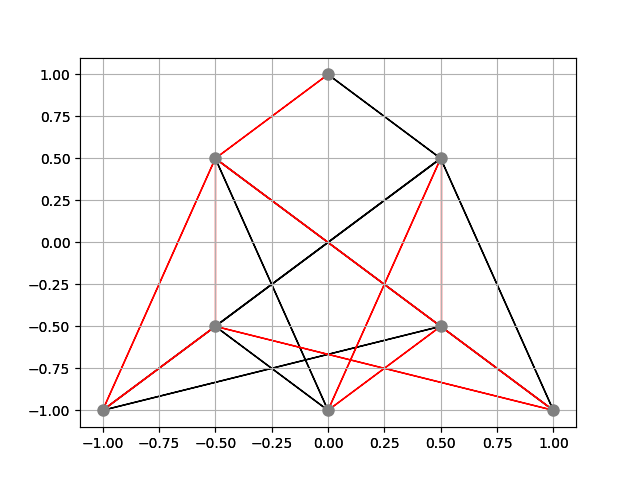
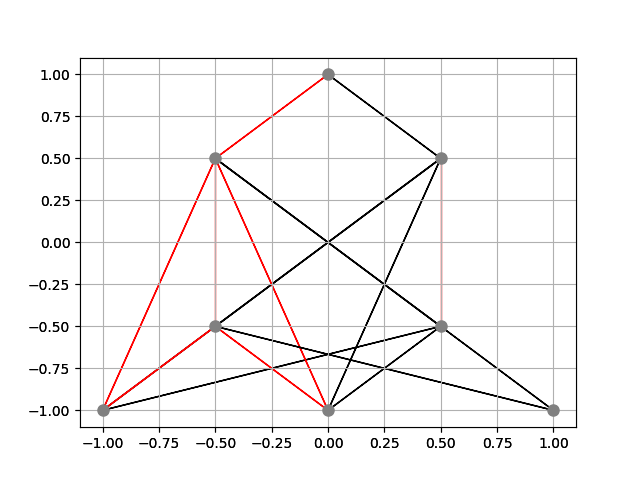
Coded merge_branch_outputs() to deal with similar connections by different branches. Updated pole_balancing experiments to work and print more details.

diff --git a/pureples/des_hyperneat/des_hyperneat.py b/pureples/des_hyperneat/des_hyperneat.py
@@ -63,10 +63,9 @@ class DESNetwork:
             # Where the magic happens.
             new_hidden_nodes, new_connections = self.des_hyperneat(branch_nodes)
 
-            # self.merge_branch_outputs(connections, new_connections)
+            connections = self.merge_branch_outputs(connections, new_connections)
 
             hidden_nodes = hidden_nodes.union(new_hidden_nodes)
-            connections = connections.union(new_connections)
 
 
         # Map hidden coordinates to their IDs.
@@ -99,23 +98,30 @@ class DESNetwork:
         # This is actually a feedforward network.
         return neat.nn.RecurrentNetwork(input_nodes, output_nodes, node_evals)
 
-    # def merge_branch_outputs(self, cons, new_cons):
-    #     """
-    #     Merge connections generated by a branch with the rest of the connections in a phenotype network.
-    #     """
+    def merge_branch_outputs(self, cons, new_cons):
+        """
+        Merge connections generated by a branch with the rest of the connections in a phenotype network.
+        """
+        merged_cons = set()
 
-    #     if cons:
-    #         if new_cons:
-    #             for ncid, nc in new_cons:
-    #                 if cons[ncid]:
-                        
-    #                         if nc == c:
-    #                             print(hi)
-    #                         #elif nc.
-    #         else:
-    #             return cons
-    #     else:
-    #         return new_cons
+        if cons:
+            if new_cons:
+                for nc in new_cons:
+
+                    for c in cons:
+                        if c.x1 == nc.x1 and c.y1 == nc.y1 and c.x2 == nc.x2 and c.y2 == nc.y2:
+                            if abs(c.weight) < abs(nc.weight):
+                                for c_attr, nc_attr in zip([attr for attr in dir(c) if not attr.startswith("__")], [attr for attr in dir(nc) if not attr.startswith("__")]):
+                                    if c_attr not in ["x1", "x2", "y1", "y2"]:
+                                        merged_cons.add(nc)
+                        else:
+                            merged_cons.add(nc)
+                    return merged_cons
+                
+            else:
+                return cons
+        else:
+            return new_cons
             
 
     @staticmethod

diff --git a/pureples/experiments/pole_balancing/des_hyperneat_pole_balancing.py b/pureples/experiments/pole_balancing/des_hyperneat_pole_balancing.py
@@ -12,7 +12,7 @@ from pureples.shared.gym_runner import run_des
 from pureples.des_hyperneat import DESNetwork
 
 # S, M or L; Small, Medium or Large (logic implemented as "Not 'S' or 'M' then Large").
-VERSION = "S"
+VERSION = "L"
 VERSION_TEXT = "small" if VERSION == "S" else "medium" if VERSION == "M" else "large"
 
 # Network coordinates and the resulting substrate.
@@ -64,6 +64,8 @@ if __name__ == '__main__':
 
     # Run! Only relevant to look at the winner.
     WINNER = run(100, ENVIRONMENT, VERSION)[0]
+
+    print(WINNER)
 
     # Save CPPN if wished reused and draw it + winner to file.
     CPPN = neat.nn.DesFeedForwardNetwork.create(WINNER, CONFIG)

diff --git a/pureples/experiments/xor/des_hyperneat_xor.py b/pureples/experiments/xor/des_hyperneat_xor.py
@@ -4,7 +4,6 @@ Fitness threshold set in config
 - by default very high to show the high possible accuracy of this library.
 """
 
-#from curses.ascii import SUB
 import pickle
 
 from cycler import V
@@ -15,7 +14,7 @@ from pureples.shared.visualize import draw_net
 from pureples.des_hyperneat import DESNetwork
 
 # S, M or L; Small, Medium or Large (logic implemented as "Not 'S' or 'M' then Large").
-VERSION = "S"
+VERSION = "L"
 VERSION_TEXT = "small" if VERSION == "S" else "medium" if VERSION == "M" else "large"
 
 # Network inputs and expected outputs.